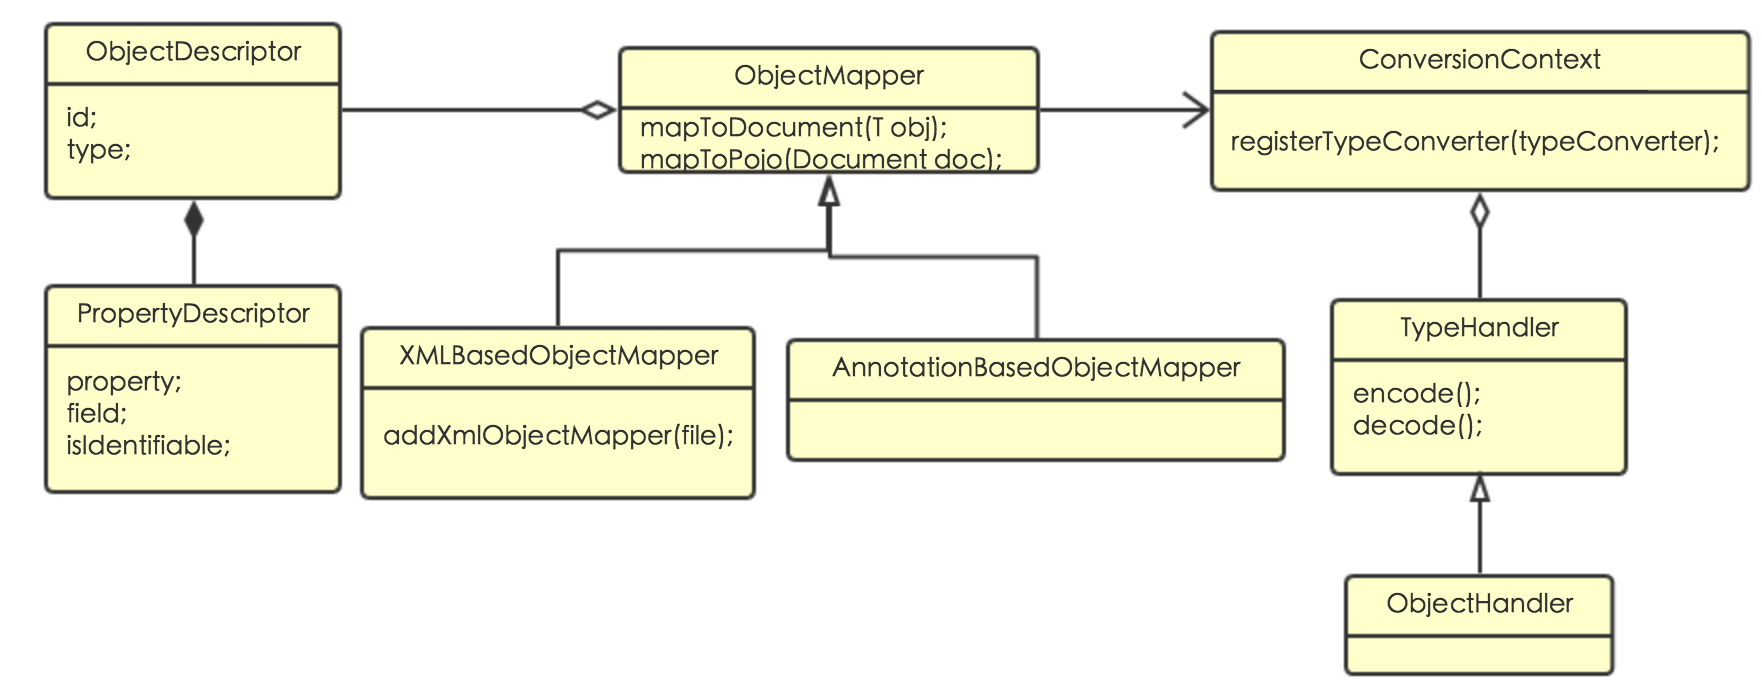
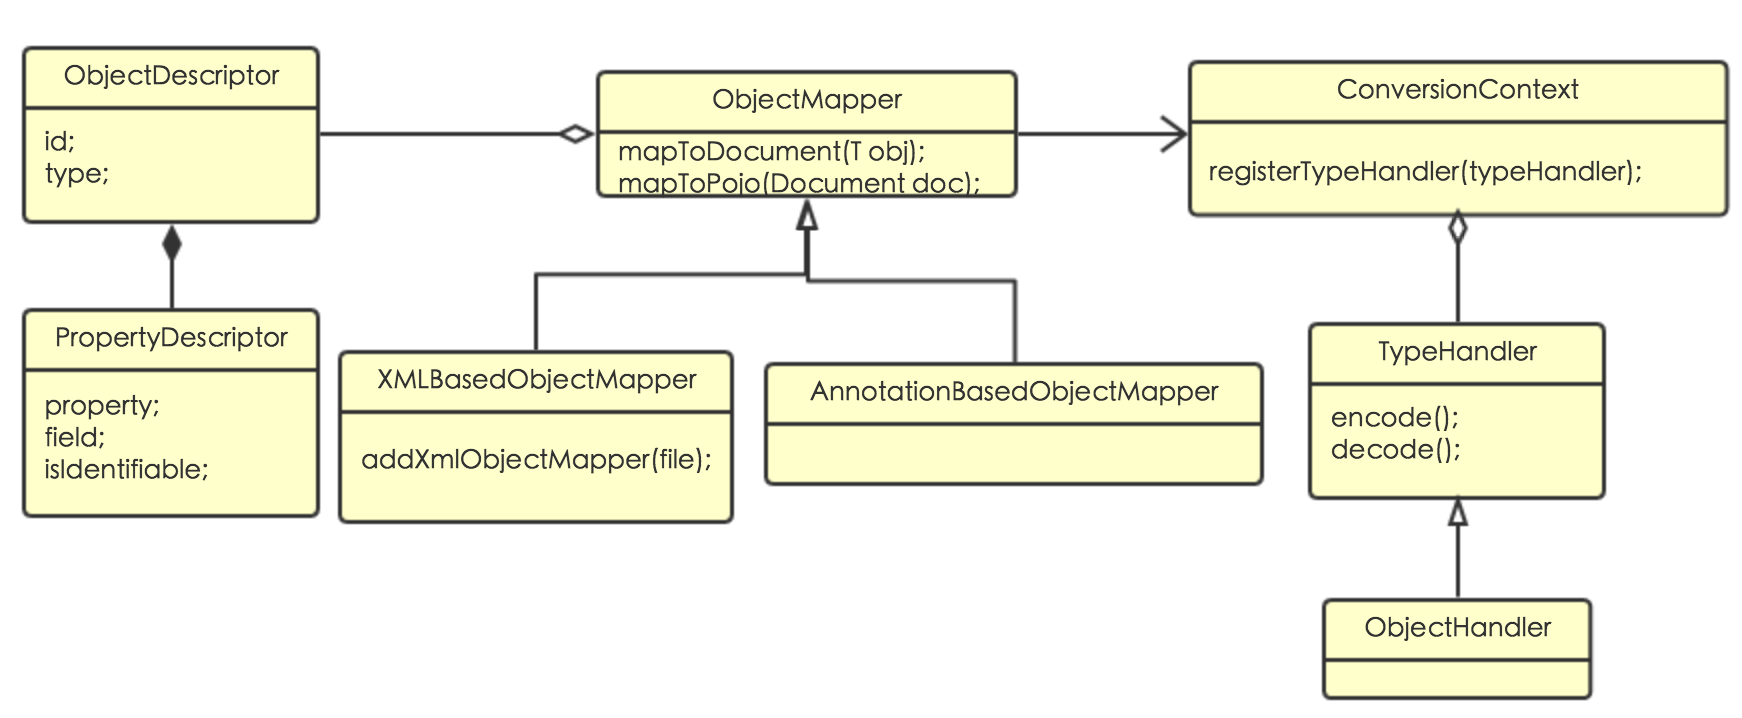
framwork for orm

Changed region(s): [[0.0, 0.0303, 1.0, 0.9986]]

diff --git a/basics/orm/mongo-java/src/main/java/com/tw/orm/AbstractTypeHandler.java b/basics/orm/mongo-java/src/main/java/com/tw/orm/AbstractTypeHandler.java
@@ -1,0 +1,19 @@
+package com.tw.orm;
+
+/**
+ * Created by pzzheng on 12/28/16.
+ */
+public abstract class AbstractTypeHandler<S, T> implements TypeHandler<S, T> {
+    protected abstract Converter<S, T> encode(S sourceObj);
+    protected abstract Converter<T, S> decode(T targetObj);
+
+    @Override
+    public boolean canConvert(Class<?> sourceClass, Class<?> targetClass) {
+        return false;
+    }
+
+    @Override
+    public Converter getConverter(Class<?> sourceClass, Class<?> targetClass) {
+        return null;
+    }
+}

diff --git a/basics/orm/mongo-java/src/main/java/com/tw/orm/TypeHandler.java b/basics/orm/mongo-java/src/main/java/com/tw/orm/TypeHandler.java
@@ -1,0 +1,20 @@
+package com.tw.orm;
+
+/**
+ * Created by pzzheng on 12/28/16.
+ */
+
+/**
+ * define the conversion between two class S & T
+ * @param <S> the source class, which you want to encode T to
+ * @param <T> the target class, which you want to decode S to
+ */
+public interface TypeHandler<S, T> {
+    boolean canConvert(Class<?> sourceClass, Class<?> targetClass);
+    Converter getConverter(Class<?> sourceClass, Class<?> targetClass);
+
+    interface Converter<S, T> {
+        T convert(S sourceObj);
+    }
+
+}

diff --git a/basics/orm/mongo-java/src/main/java/com/tw/orm/DefaultObjectMapper.java b/basics/orm/mongo-java/src/main/java/com/tw/orm/DefaultObjectMapper.java
@@ -1,0 +1,23 @@
+package com.tw.orm;
+
+import org.bson.Document;
+
+/**
+ * Created by pzzheng on 12/28/16.
+ */
+public class DefaultObjectMapper implements ObjectMapper {
+    @Override
+    public <T> Document mapToDocument(T obj) {
+        return null;
+    }
+
+    @Override
+    public <T> T mapToPojo(Document document, Class<T> pojoClass) {
+        return null;
+    }
+
+    @Override
+    public void registerObjectDescriptor(ObjectDescriptor objectDescriptor) {
+
+    }
+}

diff --git a/basics/orm/mongo-java/src/main/java/com/tw/orm/ObjectHandler.java b/basics/orm/mongo-java/src/main/java/com/tw/orm/ObjectHandler.java
@@ -1,0 +1,18 @@
+package com.tw.orm;
+
+import org.bson.Document;
+
+/**
+ * Created by pzzheng on 12/28/16.
+ */
+public class ObjectHandler extends AbstractTypeHandler<Document, Object> {
+    @Override
+    protected Converter<Document, Object> encode(Document sourceObj) {
+        return null;
+    }
+
+    @Override
+    protected Converter<Object, Document> decode(Object targetObj) {
+        return null;
+    }
+}

diff --git a/basics/orm/mongo-java/src/main/java/com/tw/orm/ObjectMapper.java b/basics/orm/mongo-java/src/main/java/com/tw/orm/ObjectMapper.java
@@ -1,0 +1,12 @@
+package com.tw.orm;
+
+import org.bson.Document;
+
+/**
+ * Created by pzzheng on 12/28/16.
+ */
+public interface ObjectMapper {
+    <T> Document mapToDocument(T obj);
+    <T> T mapToPojo(Document document, Class<T> pojoClass);
+    void registerObjectDescriptor(ObjectDescriptor objectDescriptor);
+}

diff --git a/basics/orm/mongo-java/src/main/java/com/tw/orm/ObjectDescriptor.java b/basics/orm/mongo-java/src/main/java/com/tw/orm/ObjectDescriptor.java
@@ -1,0 +1,13 @@
+package com.tw.orm;
+
+/**
+ * Created by pzzheng on 12/28/16.
+ */
+public class ObjectDescriptor {
+    Class<?> type;
+    String id;
+
+    void addPropertyDescriptor(PropertyDescriptor propertyDescriptor) {
+
+    }
+}

diff --git a/basics/orm/mongo-java/src/main/java/com/tw/orm/XmlBasedObjectMapper.java b/basics/orm/mongo-java/src/main/java/com/tw/orm/XmlBasedObjectMapper.java
@@ -1,0 +1,12 @@
+package com.tw.orm;
+
+import java.io.File;
+
+/**
+ * Created by pzzheng on 12/28/16.
+ */
+public class XmlBasedObjectMapper extends DefaultObjectMapper {
+    void addXmlObjectMapper(File file) {
+
+    }
+}

diff --git a/basics/orm/mongo-java/src/main/java/com/tw/orm/PropertyDescriptor.java b/basics/orm/mongo-java/src/main/java/com/tw/orm/PropertyDescriptor.java
@@ -1,0 +1,11 @@
+package com.tw.orm;
+
+/**
+ * Created by pzzheng on 12/28/16.
+ */
+public class PropertyDescriptor {
+    String propertyName;
+    String fieldName;
+    boolean isId;
+
+}

diff --git a/basics/orm/mongo-java/src/main/java/com/tw/orm/ConversionContext.java b/basics/orm/mongo-java/src/main/java/com/tw/orm/ConversionContext.java
@@ -1,0 +1,7 @@
+package com.tw.orm;
+
+/**
+ * Created by pzzheng on 12/28/16.
+ */
+public class ConversionContext {
+}
